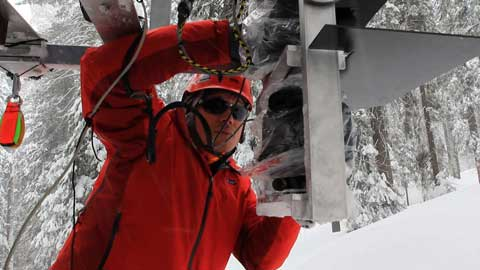
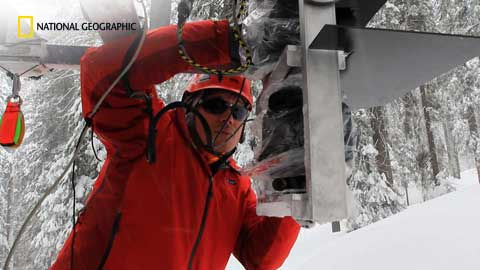
fix toc and add watermark to images

Changed region(s): [[0.0, 0.0, 0.4375, 0.2963]]

diff --git a/phonegap/js/views/toc-view.js b/phonegap/js/views/toc-view.js
@@ -144,22 +144,25 @@ define([], function (require) {
                 max_width = padding,
                 button,
                 scale = 2.2,
+                btn_width = window.innerWidth / scale,
                 id;
 
             for (i = 0; i < contents.length; i += 1) {
+
                 id = i > 0 ? i + 1: 0;
                 button = new TOCViewButton(id, dir + contents[i].img);
-                button.setSize(window.innerWidth / scale, window.innerHeight / scale);
+                button.setSize(btn_width, window.innerHeight / scale);
                 button.setPosition(x, y);
                 button.render();
                 buttons.push(button);
 
-                if (i % Math.round(contents.length / 2) === 0 && i !== 0) {
-                    max_width = x;
+
+                if (i == 6) {
+                    max_width = x + btn_width + padding;
                     y += (window.innerHeight / scale) + padding;
                     x = padding;
                 } else {
-                    x += (window.innerWidth / scale) + padding;
+                    x += btn_width + padding;
                 }
 
                 button.render().html(contents[i].content);

diff --git a/phonegap/css/screen.css b/phonegap/css/screen.css
@@ -298,9 +298,10 @@ html, body {
   background-position: 50% 50%;
 }
 
-@media screen and (device-width: 600px) and (device-height: 905px) and (-webkit-min-device-pixel-ratio: 1.331) and (-webkit-max-device-pixel-ratio: 1.332) {
-  /* line 205, ../sass/screen/_main.scss */
-  body {
+/* Nexus 7 */
+@media only screen and (min-device-width: 603px) and (max-device-width: 966px) {
+  /* line 206, ../sass/screen/_main.scss */
+  html, body {
     font-size: 80%;
   }
 }
@@ -343,8 +344,8 @@ section.page-view-full.in {
   position: relative;
   width: 100%;
   height: 80vh;
-  box-sizing: border-box;
   padding: 2em;
+  box-sizing: border-box;
 }
 
 /* line 43, ../sass/screen/_pages.scss */
@@ -833,7 +834,7 @@ section.page-view-full.in {
   background-image: url(../assets/images/article1/elevation-small.png);
   background-repeat: no-repeat;
   background-size: 100%;
-  border: 1px solid black;
+  border: 1px solid #ccc;
   background-color: white;
 }
 

diff --git a/phonegap/sass/screen/_main.scss b/phonegap/sass/screen/_main.scss
@@ -201,8 +201,9 @@ html, body{
     background-position: 50% 50%;
 }
 
-@media screen and (device-width: 600px) and (device-height: 905px) and (-webkit-min-device-pixel-ratio: 1.331) and (-webkit-max-device-pixel-ratio: 1.332) {
-    body{
+/* Nexus 7 */
+@media only screen and (min-device-width : 603px) and (max-device-width : 966px){
+    html, body{
         font-size: 80%;
     }
 }

diff --git a/phonegap/sass/screen/_map.scss b/phonegap/sass/screen/_map.scss
@@ -207,7 +207,7 @@ $lightblue: rgb(48, 145, 95);
     background-image: url(../assets/images/article1/elevation-small.png);
     background-repeat: no-repeat;
     background-size: 100%;
-    border: 1px solid black;
+    border: 1px solid #ccc;
     background-color: white;
 }
 

diff --git a/phonegap/sass/screen/_pages.scss b/phonegap/sass/screen/_pages.scss
@@ -36,8 +36,8 @@ section{
     position: relative;
     width: 100%;
     height: 80vh;
-    box-sizing: border-box;
     padding: 2em;
+    box-sizing: border-box;
 }
 
 .region1{
